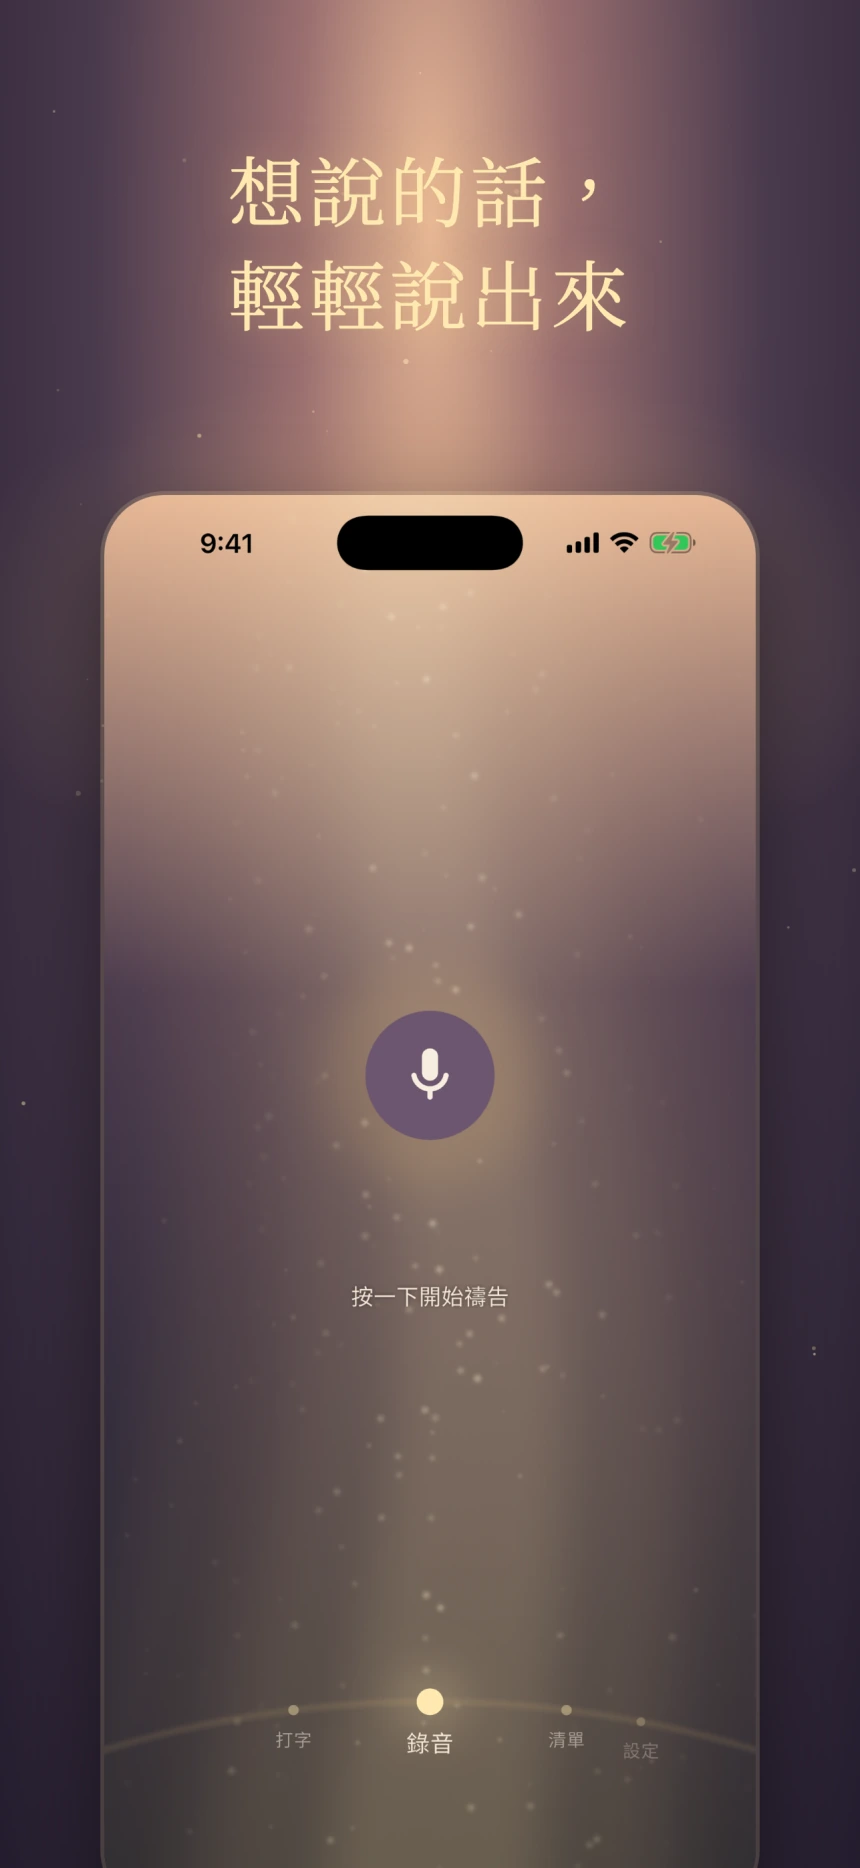
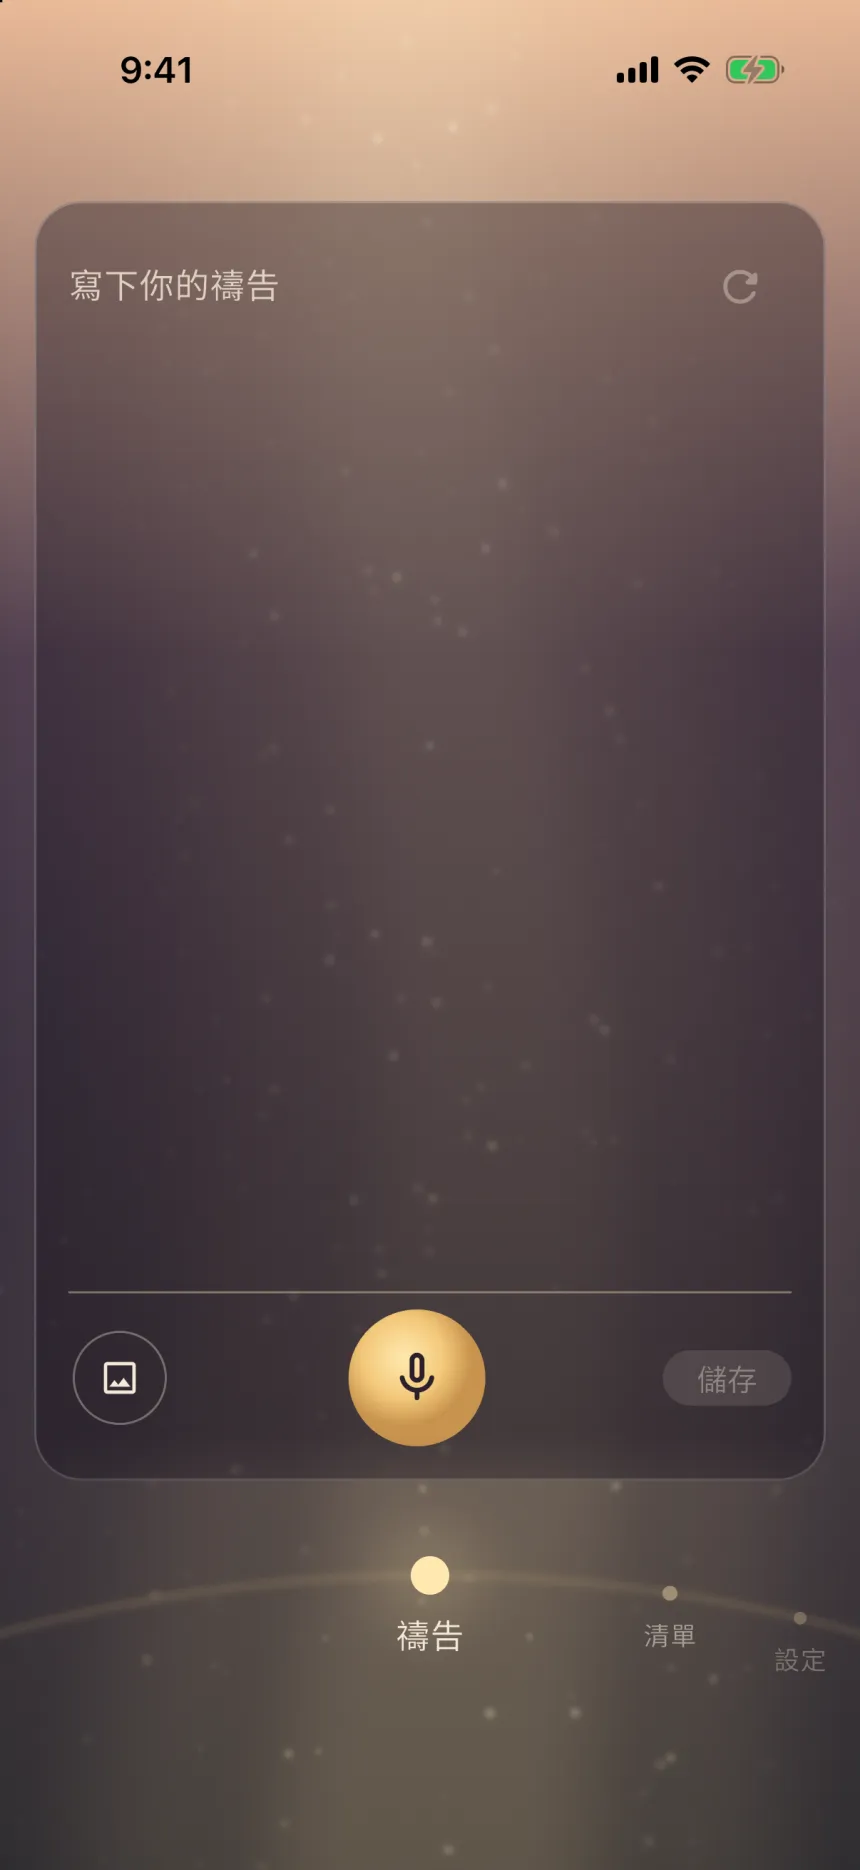
#12 feat(amenjournal): swap in 1.1.0 screenshots and live-transcript copy

diff --git a/components/AmenScreenshot.tsx b/components/AmenScreenshot.tsx
@@ -1,9 +1,9 @@
 import Image from "next/image";
 
 const alts = {
-  1: "阿們日記的錄音畫面：中央一顆麥克風按鈕，下方寫著「按一下開始禱告」",
+  1: "阿們日記的禱告畫面：一張空白的書寫卡片，下方一顆麥克風按鈕",
   2: "阿們日記的標籤星座畫面：每個標籤是一顆星，同一標籤的禱告連成星座",
-  3: "阿們日記的清單畫面：禱告條目依日期由新到舊排列",
+  3: "阿們日記的清單畫面：禱告依日期分組，由新到舊排列",
   4: "阿們日記的月曆畫面：留下過禱告的日期標有一個小圓點",
   5: "阿們日記的條目畫面：一則寫下的禱告全文，底部帶有「感恩」標籤",
 } as const;
@@ -20,7 +20,7 @@ export function AmenScreenshot({
       src={`/amen-journal/screenshot-0${n}.webp`}
       alt={alts[n]}
       width={860}
-      height={1868}
+      height={1870}
       priority={priority}
       className="h-auto w-full rounded-3xl border border-chrome-hair"
     />

diff --git a/app/products/amenjournal/page.tsx b/app/products/amenjournal/page.tsx
@@ -36,7 +36,7 @@ const inputs = [
   {
     kicker: "說",
     title: "按一下，開口禱告",
-    body: "說完自動轉成逐字稿，可以修改。原始錄音保留，停頓與情緒不會不見。",
+    body: "邊說邊出字，說完可以修改。原始錄音保留，停頓與情緒不會不見。",
   },
   {
     kicker: "寫",
